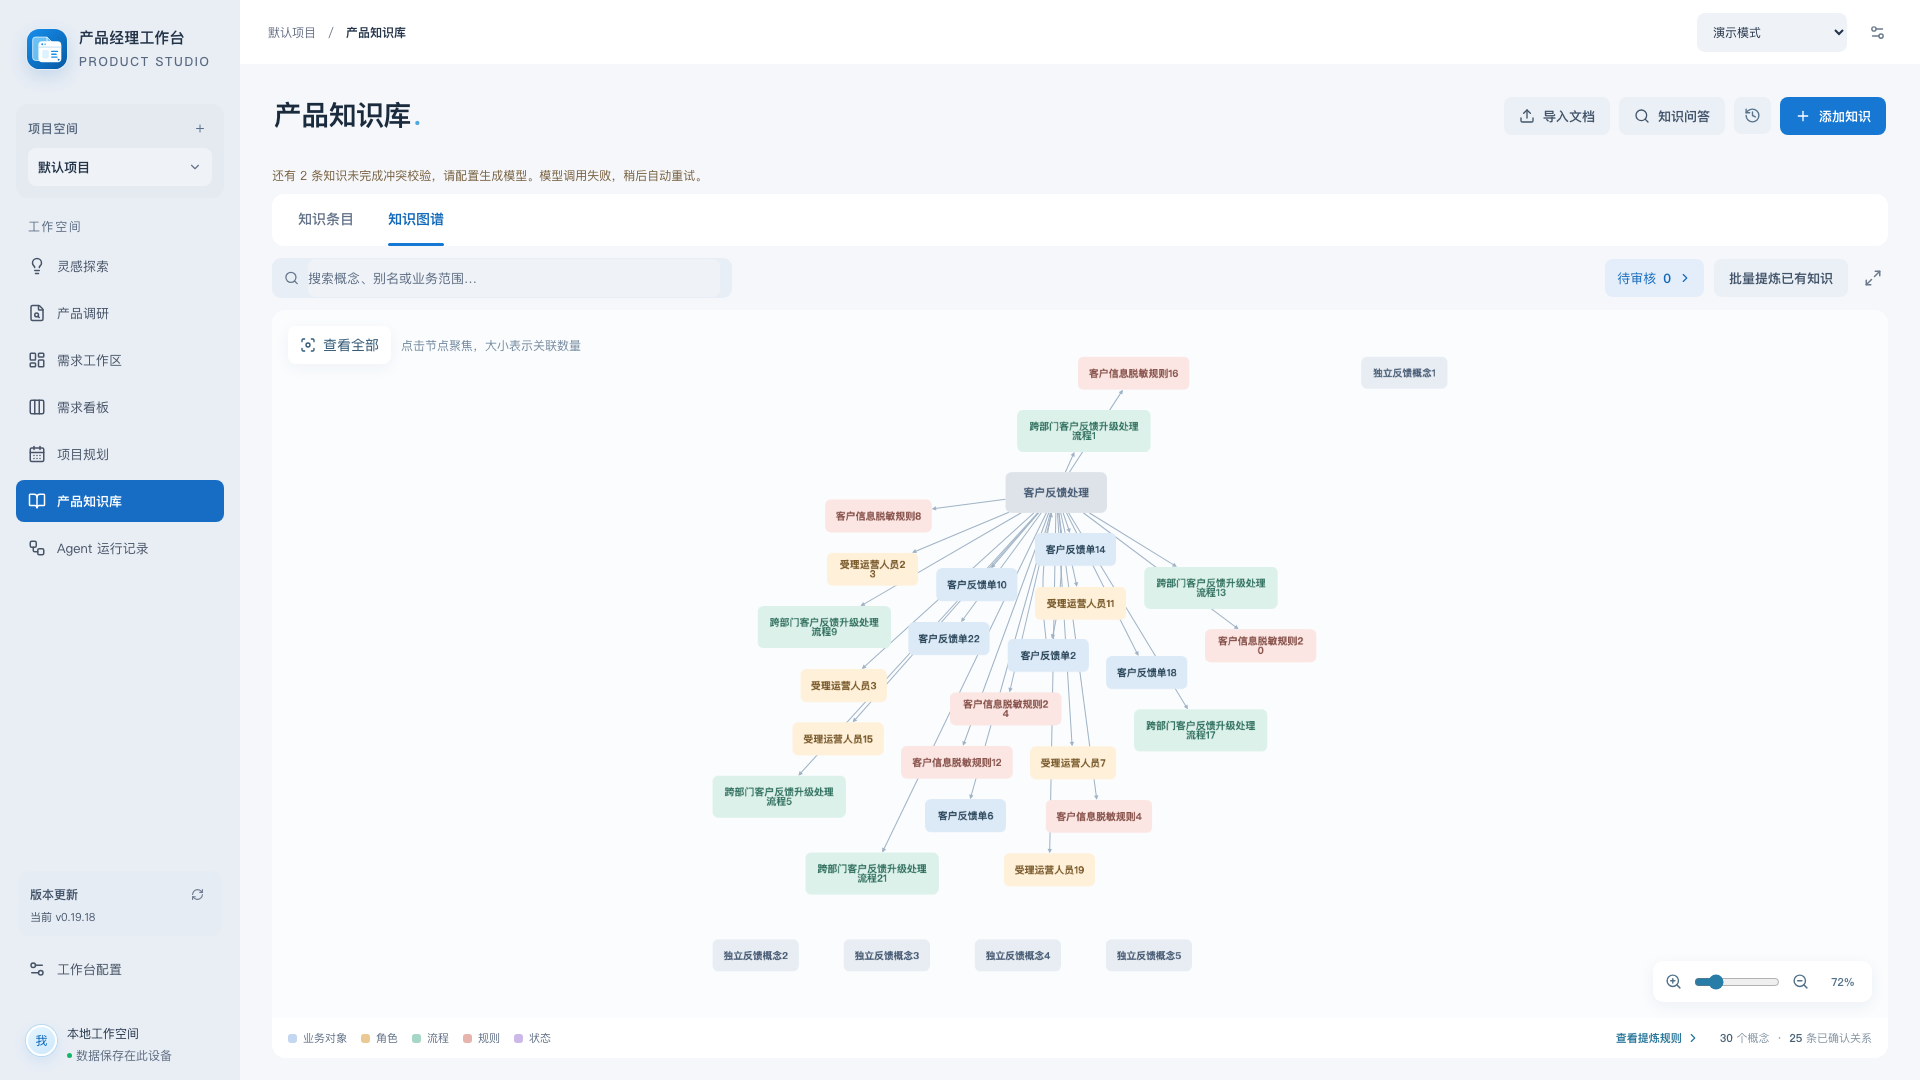
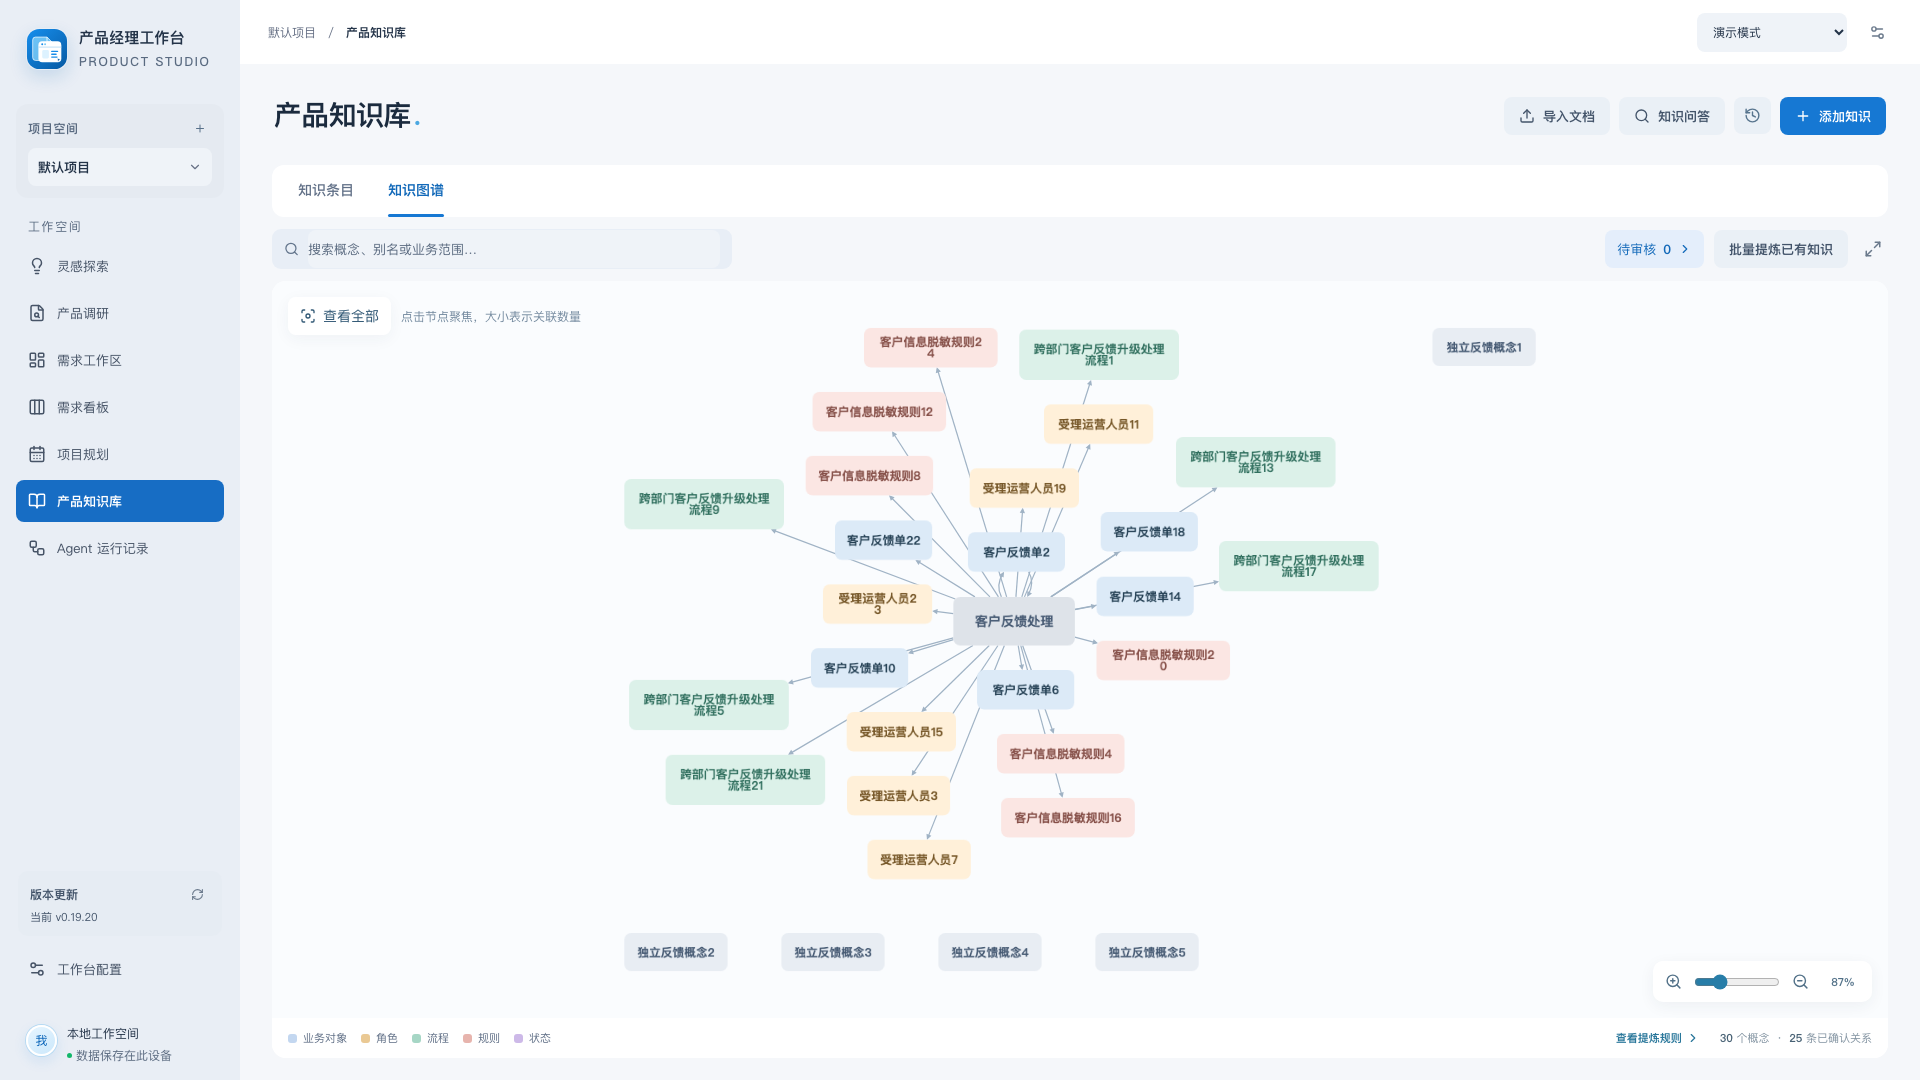
Update graph review documentation and screenshots

diff --git a/INSTALL.md b/INSTALL.md
@@ -2,6 +2,16 @@
 
 此 ZIP 是服务端部署包，适用于 Node.js 22.13+。浏览器访问工作台，无需安装客户端。ZIP 不包含 Node.js、用户数据或访问口令。
 
+## 0.19.20 大图谱审核与提炼校验
+
+概念目录改为批量读取来源、别名和合并身份，审核页按需加载完整标准概念选项；仅候选信息变化时保留图谱画布。大型图谱减少布局与标签间距的重复计算，保留孤立概念、节点位置和来源追溯。
+
+身份对齐按批次重试格式异常，单批失败不抹去其他批次结果。同名候选采用不同类型时，即使尚未审批也会降低置信度并提示核对。原文中明确声明的简称与全称可双向核对，显式状态定义表可补充未评分候选；所属状态机不明、范围或身份有歧义时仍需人工确认。补漏候选的引用或条件错误会再次复核，复核通过后与有效候选合并；补漏 JSON 格式异常只重试该请求，保留完整原文与原草稿，失败不记为空结果。原文存在尚未覆盖的关系类别时提供片段检查问题，线索不能作为已确认关系；行号与引用不一致时，仅回退到可以独立定位和校验的连续原文，并降低置信度。
+
+状态归属不从任意大写文件标题推断；枚举类型、结果事件和文档示例不转为业务实体。关系与概念校验识别编码边界，避免将编号后缀不同的对象混认。结构图结合层级识别未展开的同级模块，服务能力中的动作不当作单据别名，表格加粗及代码样式不影响原文别名识别。
+
+沿用 schema v43，不自动清空原有图谱或重新调用模型。明确选择重新提炼时重新检查结构化来源，保留已有审核决定。升级前备份完整数据目录和 `.env`，在新目录启动；回退同时恢复旧程序及升级前完整数据。模型置信度仍不代表统计正确率。
+
 ## 0.19.19 概念候选召回与关系补漏
 
 图谱提炼按每个概念分别召回身份候选，结合已审核名称、别名、定义与来源摘录；配置 Embedding 时增加语义召回，分批对齐以保留后续概念的候选。相似度用于召回，概念合并仍需人工确认。向量服务异常会提示召回未完成并降低置信度，未配置时使用文字召回，无需新服务。
